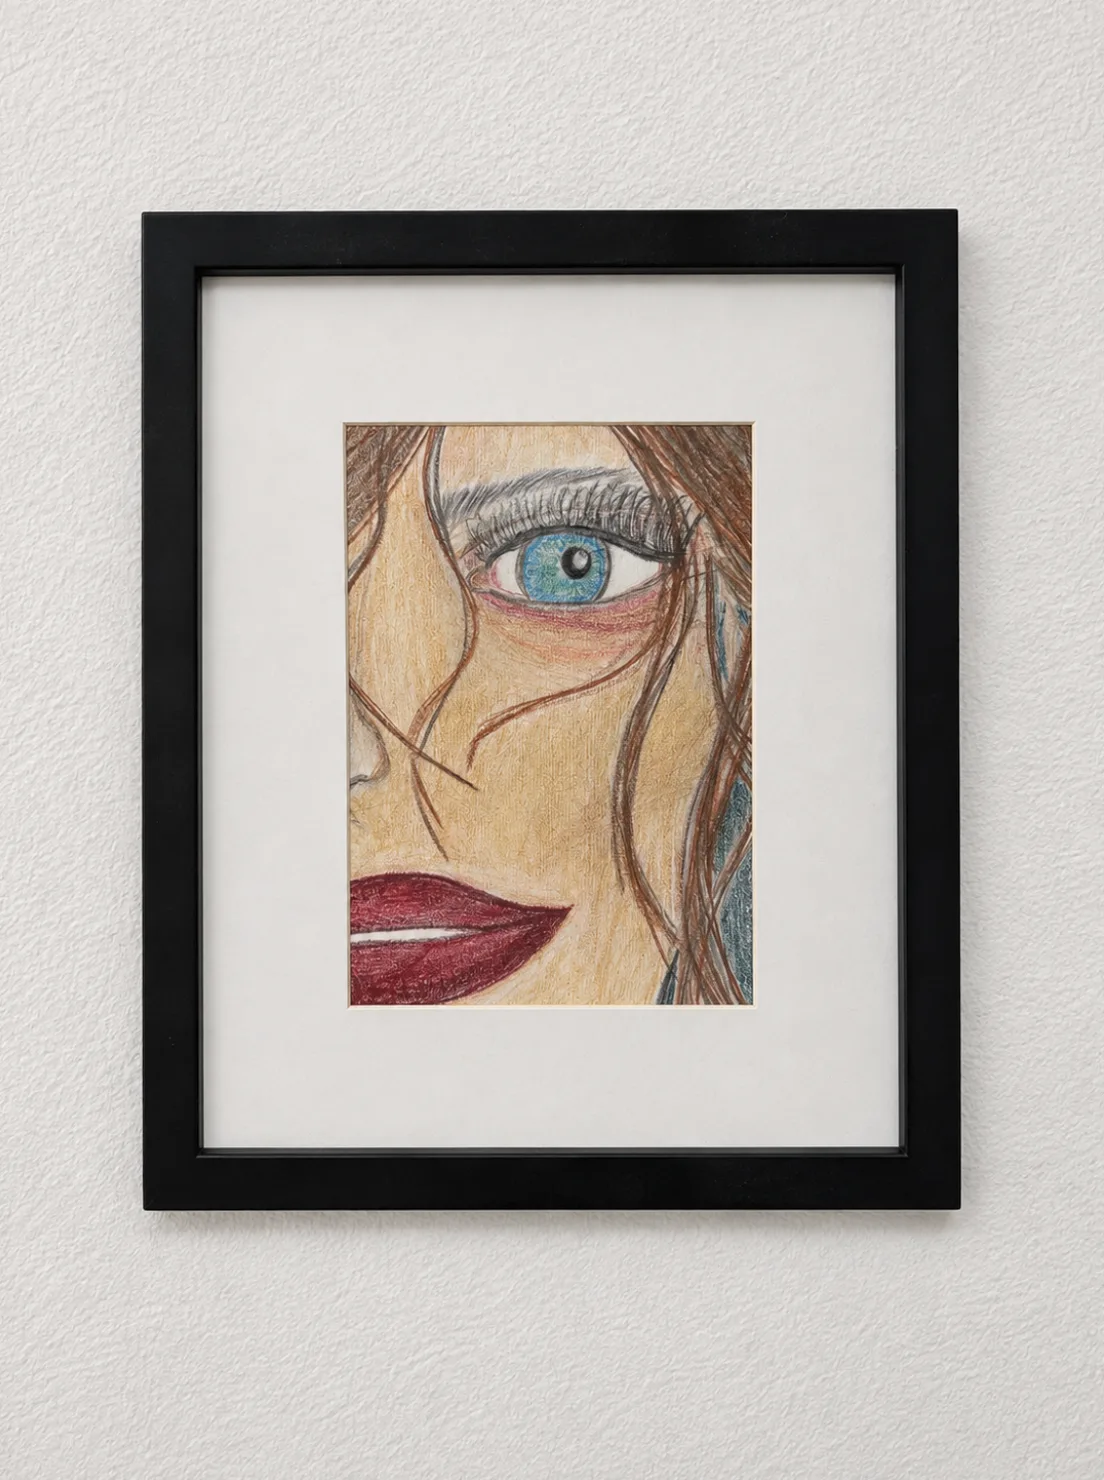
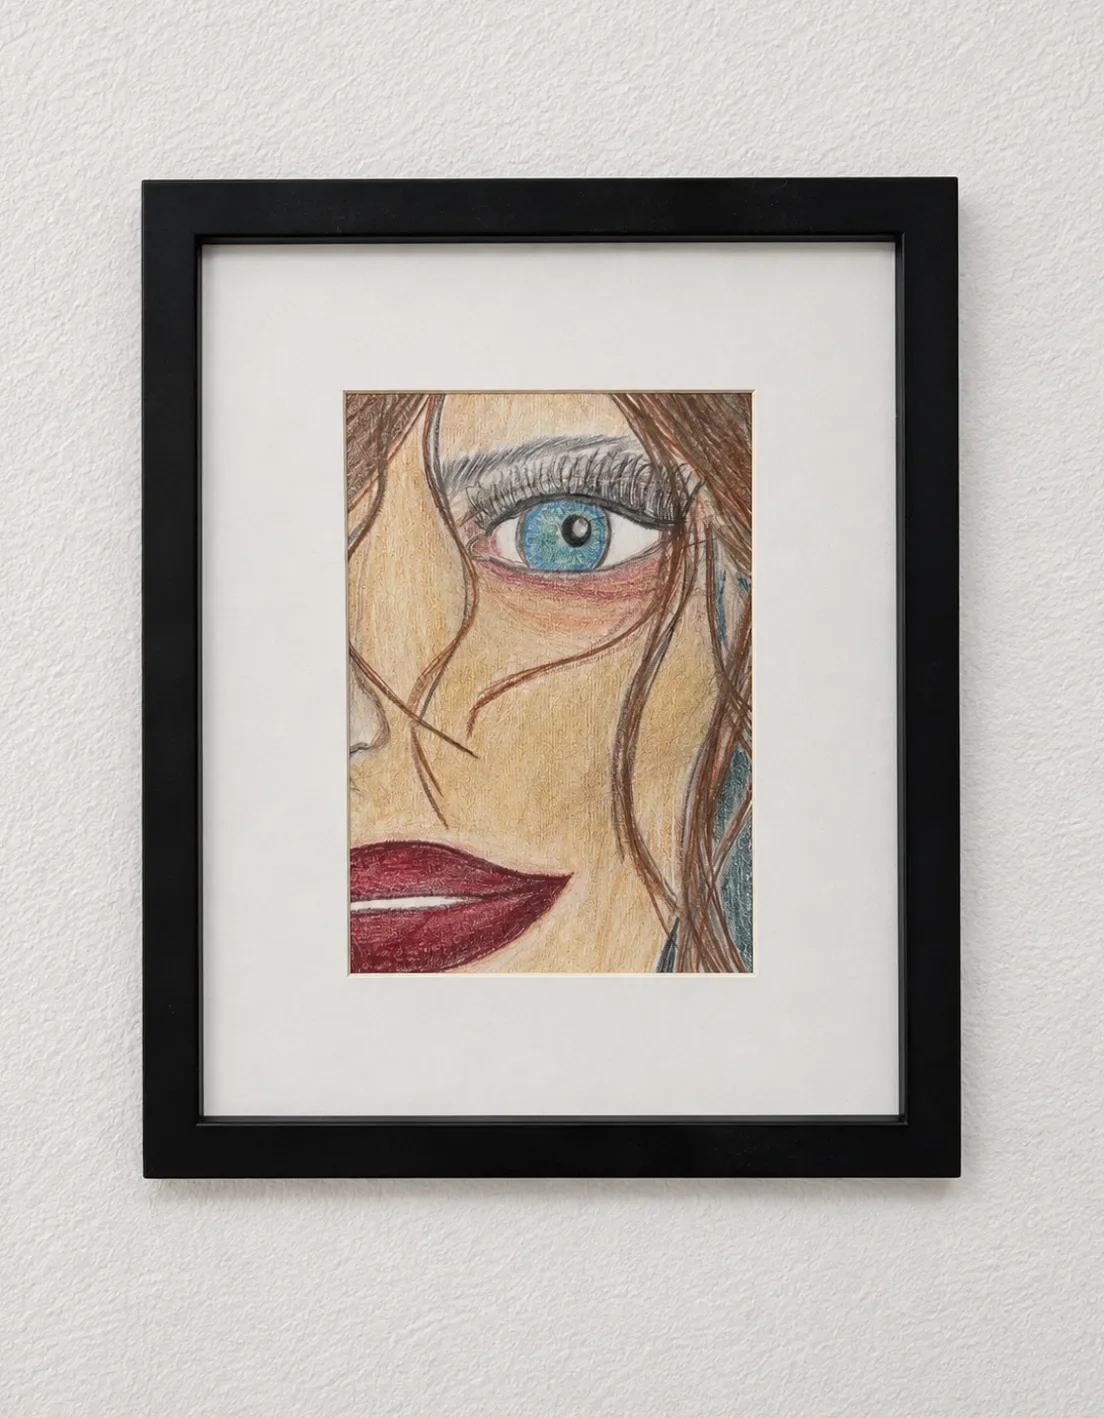
Crop 'Knowing' top and bottom to match color-piece heights

diff --git a/content/artworks.ts b/content/artworks.ts
@@ -56,7 +56,7 @@ export const artworks: Artwork[] = [
     medium: "Colored pencil",
     image: "/art/blue-eye.webp",
     width: 1104,
-    height: 1480,
+    height: 1418,
     alt: "A framed colored-pencil drawing on a pale wall: a close cropped face with one bright blue eye under a dark brow, auburn hair falling across warm skin, and deep red lips at the lower edge.",
     order: 1.8,
     featured: true,
